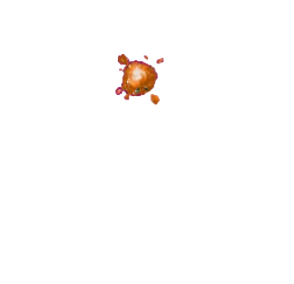
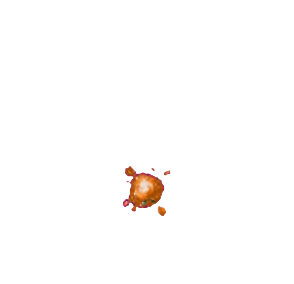
los misiles explotan

Changed region(s): [[0.3673, 0.169, 0.5816, 0.3662], [0.398, 0.5915, 0.5816, 0.7606], [0.551, 0.5915, 0.5816, 0.6197]]

diff --git a/client_src/graphics/object_drawer.cpp b/client_src/graphics/object_drawer.cpp
@@ -19,8 +19,8 @@ ObjectDrawer::ObjectDrawer(SdlWindow& _window,
 void ObjectDrawer::loadObjects(int x, int y, double player_angle) {
     //puts("Cargando objetos");
     std::vector<Drawable> objects_vector = map.getAllObjectsAndEnemies();
-    std::cout << "Cant objetos: " << objects_vector.size() << std::endl;
-    std::cout << "jugador en: " << x << "," << y <<")\n";
+    //std::cout << "Cant objetos: " << objects_vector.size() << std::endl;
+    //std::cout << "jugador en: " << x << "," << y <<")\n";
     for (auto& object : objects_vector) {
         std::cout << "objeto en: " << object.getMapPosition().first << "," << object.getMapPosition().second <<")\n";;
         //printf("El objeto %s empieza en la posicion: (%d,%d)\n", object.getObjectName().c_str(), object.getMapPosition().first, object.getMapPosition().second);
@@ -62,12 +62,12 @@ void ObjectDrawer::renderObject(int x_pos, int y_pos, double player_angle,
     int delta_y = object_y - y_pos;
     double pl_ob_angle =
             getGammaAngle(player_angle, object_angle);
-    printf("El angulo del objeto relativo a la vision del jugador es de %f\n", pl_ob_angle);
+    //printf("El angulo del objeto relativo a la vision del jugador es de %f\n", pl_ob_angle);
     double distance = Calculator::calculateDistance(x_pos - object_x,
                                                     y_pos -object_y);
     double beta = convertToBeta(pl_ob_angle);
-    std::cout << "Jugador en (" << x_pos << "," << y_pos << ")\n";
-    std::cout << "Objeto en (" << object_x << "," << object_y << ")\n";
+    //std::cout << "Jugador en (" << x_pos << "," << y_pos << ")\n";
+    //std::cout << "Objeto en (" << object_x << "," << object_y << ")\n";
     //std::cout << "Distancia: " << distance << std::endl;
     if (blockedByWall(beta, distance))
         return;

diff --git a/client_src/game/in_game_change_processor.cpp b/client_src/game/in_game_change_processor.cpp
@@ -1,8 +1,8 @@
 
 #include "client/game/in_game_change_processor.h"
 
-#define MAX_CHANGES 5
-#define MAX_ITERATIONS 20
+#define MAX_CHANGES 10
+#define MAX_ITERATIONS 75
 
 /* Recibe lo necesario para poder aplicar los cambios sobre la vista.
  * Por ejemplo del lado del eventProcessor recibe el objeto Game y
@@ -190,7 +190,7 @@ void InGameChangeProcessor::processInGameChange(Change &change) {
             break;
         }
         case (RPG_EXPLODE_AT): {
-            map.setRPGMissileExplosion(1, value1, value2);
+            map.setRPGMissileExplosion(id, value1, value2);
             render_vector = std::vector<int>{0, 1, 1, 0};
             // id: mismo rpg_id - value1: new_x - value2: new_y (explota en esa x,y)
             break;

diff --git a/client_src/game/client_map.cpp b/client_src/game/client_map.cpp
@@ -240,7 +240,9 @@ void ClientMap::updateRPGMissile(int object_id, int new_x, int new_y) {
 void ClientMap::setRPGMissileExplosion(int object_id, int exp_x, int exp_y) {
     std::cout << "Misil explota en (" << exp_x << "," << exp_y << ")\n";
     removeObject(object_id);
-    putDrawableAt(exp_x, exp_y, EFFECT_EXPLOSION);
+    Drawable explosion(EFFECT_EXPLOSION);
+    explosion.setMapPosition(exp_x, exp_y);
+    objects.insert(std::pair<int, Drawable>(-1, explosion));
 }
 
 void ClientMap::setDimensions(int _width, int _height) {

diff --git a/client_src/game/client_game.cpp b/client_src/game/client_game.cpp
@@ -28,8 +28,8 @@ void ClientGame::startGame() {
     screen.render(std::vector<int>{1, 1, 1, 1});
     std::cout << "Se inicia la partida" << std::endl;
     SDL_Event event;
-
     while (running) {
+        //std::cout << "inicio ciclo de juego\n";
         usleep(33000);
         change_processor.processInGameChanges();
         if (SDL_PollEvent(&event) == 0) {
